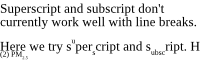
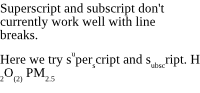
Fix bug affecting paragraphs with long words at the end.

Changed region(s): [[0.0, 0.025, 0.99, 0.425], [0.0, 0.475, 1.0, 0.9]]

diff --git a/renderer.go b/renderer.go
@@ -280,7 +280,26 @@ func (r *Renderer) writeLines(text string, sty draw.TextStyle) {
 		if len(str) > 1 {
 			nextBreak = strings.IndexFunc(str[lineStart+len(line)+1:], splitFunc)
 		}
-		lineEnd := lineStart + len(line) + 1 + nextBreak
+		var lineEnd int
+		if nextBreak == -1 {
+			lineEnd = len(str)
+		} else {
+			lineEnd = lineStart + len(line) + 1 + nextBreak
+		}
+
+		if sty.Font.Width(str[lineStart:lineEnd]) > r.dc.Max.X-r.at.X {
+			// If we go to the next break, will the line be too long? If so,
+			// insert a line break.
+			lineStart += len(line)
+			if r.at.X == r.dc.Min.X { // Remove any trailing space at the beginning of a line.
+				line = strings.TrimLeft(line, " ")
+			}
+			r.dc.FillText(sty, r.at, line)
+			r.newLine()
+			line = ""
+		} else {
+			line = str[lineStart:lineEnd]
+		}
 		if nextBreak == -1 {
 			out := str[lineStart:]
 			if r.at.X == r.dc.Min.X { // Remove any trailing space at the beginning of a line.
@@ -289,19 +308,11 @@ func (r *Renderer) writeLines(text string, sty draw.TextStyle) {
 			r.dc.FillText(sty, r.at, out)
 			r.at.X += sty.Width(out)
 			break
-		} else if sty.Font.Width(str[lineStart:lineEnd]) > r.dc.Max.X-r.at.X {
-			// If we go to the next break, will the line be too long? If so,
-			// insert a line break.
-			lineStart += len(line)
-			if r.at.X == r.dc.Min.X { // Remove any trailing space at the beginning of a line.
-				line = strings.TrimLeft(line, " ")
-			}
-			r.dc.FillText(sty, r.at, line)
-			r.at.X = r.dc.Min.X
-			r.at.Y -= r.lineHeight
-			line = ""
-		} else {
-			line = str[lineStart:lineEnd]
 		}
 	}
+}
+
+func (r *Renderer) newLine() {
+	r.at.X = r.dc.Min.X
+	r.at.Y -= r.lineHeight
 }

diff --git a/renderer_test.go b/renderer_test.go
@@ -40,10 +40,10 @@ Mauris et tellus sagittis, laoreet dui id, mollis erat. Duis ultrices facilisis 
 		},
 		{
 			html: `<p>Superscript and subscript don't currently work well with line breaks.</p>
-<p>Here we try s<sup>u</sup>per<sub>s</sub>cript and s<sub>ubsc</sub>ript. H<sub>2</sub>O<sup>(2)</sub> PM<sub>2.5</sub>`,
+<p>Here we try s<sup>u</sup>per<sub>s</sub>cript and s<sub>ubsc</sub>ript. H<sub>2</sub>O<sub>(2)</sub> PM<sub>2.5</sub>`,
 			filename: "testdata/supersub.png",
 			width:    vg.Points(150),
-			height:   vg.Points(60),
+			height:   vg.Points(70),
 		},
 		{
 			html: `<h1>Long Long Long Long Heading 1</h1>
@@ -73,6 +73,12 @@ Mauris et tellus sagittis, laoreet dui id, mollis erat. Duis ultrices facilisis 
 <hr>
 <p>Paragraph 2</p>`,
 			filename: "testdata/hr.png",
+			width:    vg.Points(100),
+			height:   vg.Points(50),
+		},
+		{
+			html:     `<p>This is a short paragraph with a long woooooooooooord.</p>`,
+			filename: "testdata/long_word.png",
 			width:    vg.Points(100),
 			height:   vg.Points(50),
 		},
